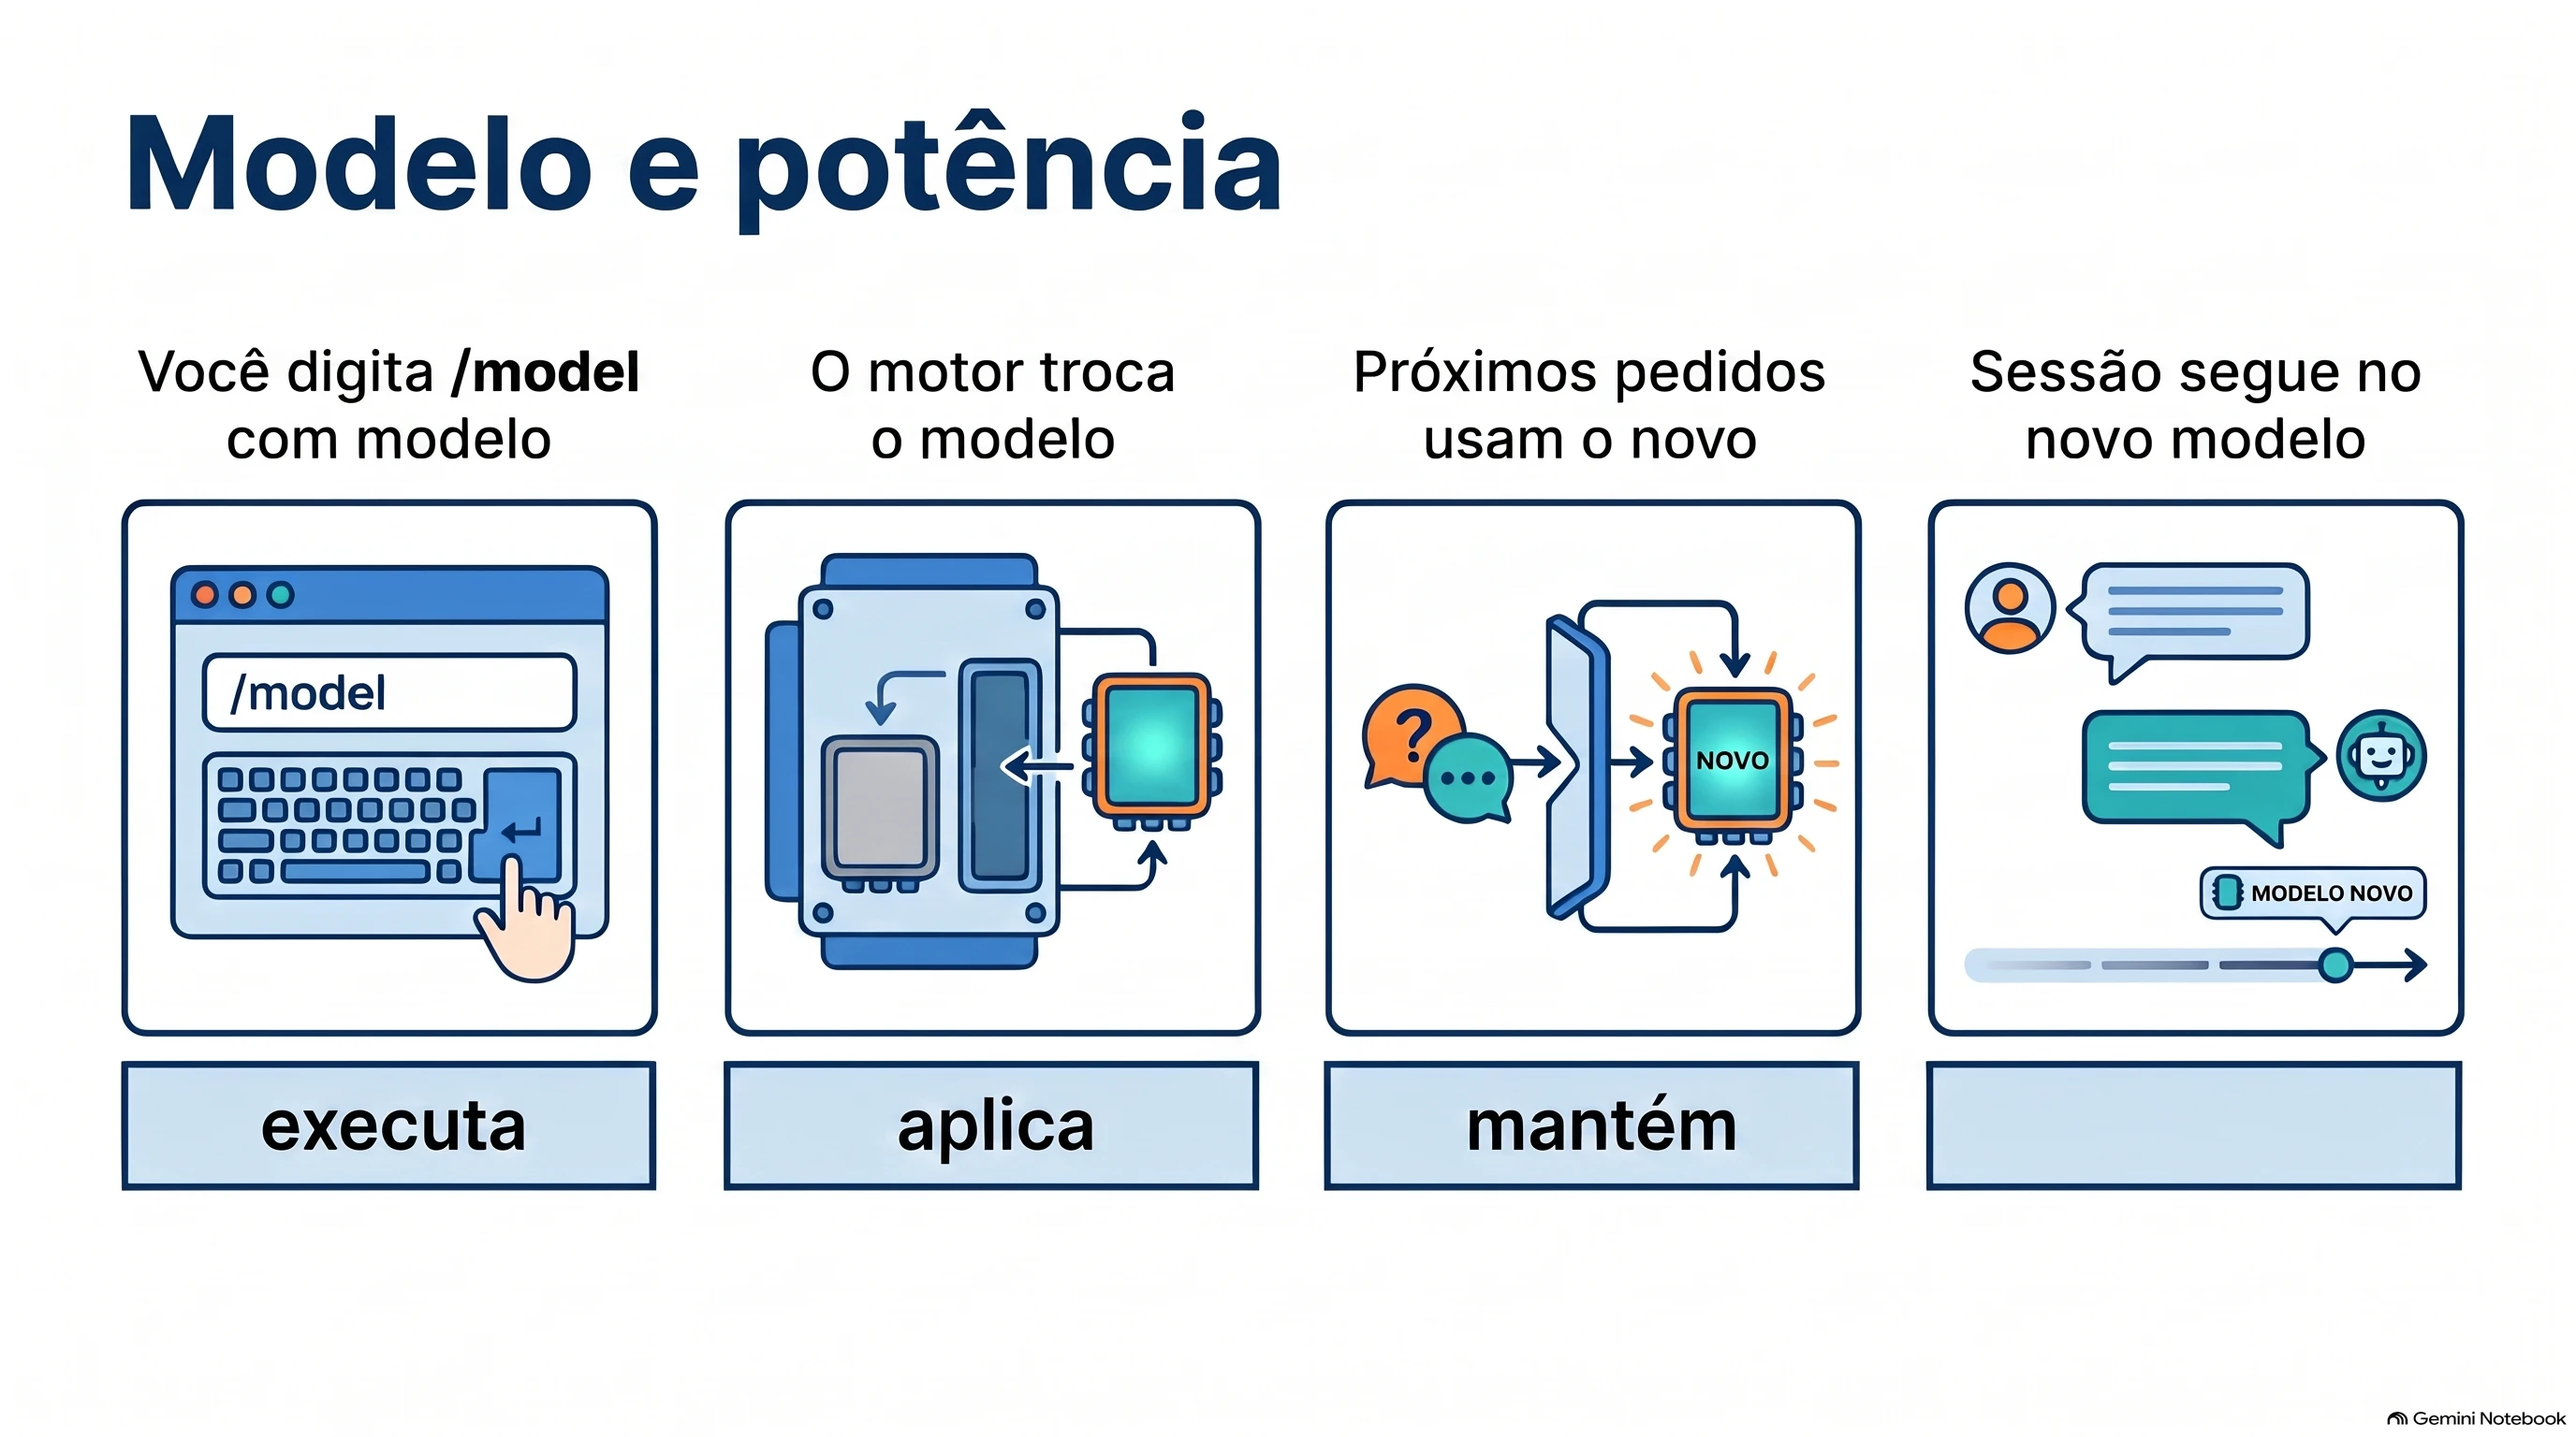
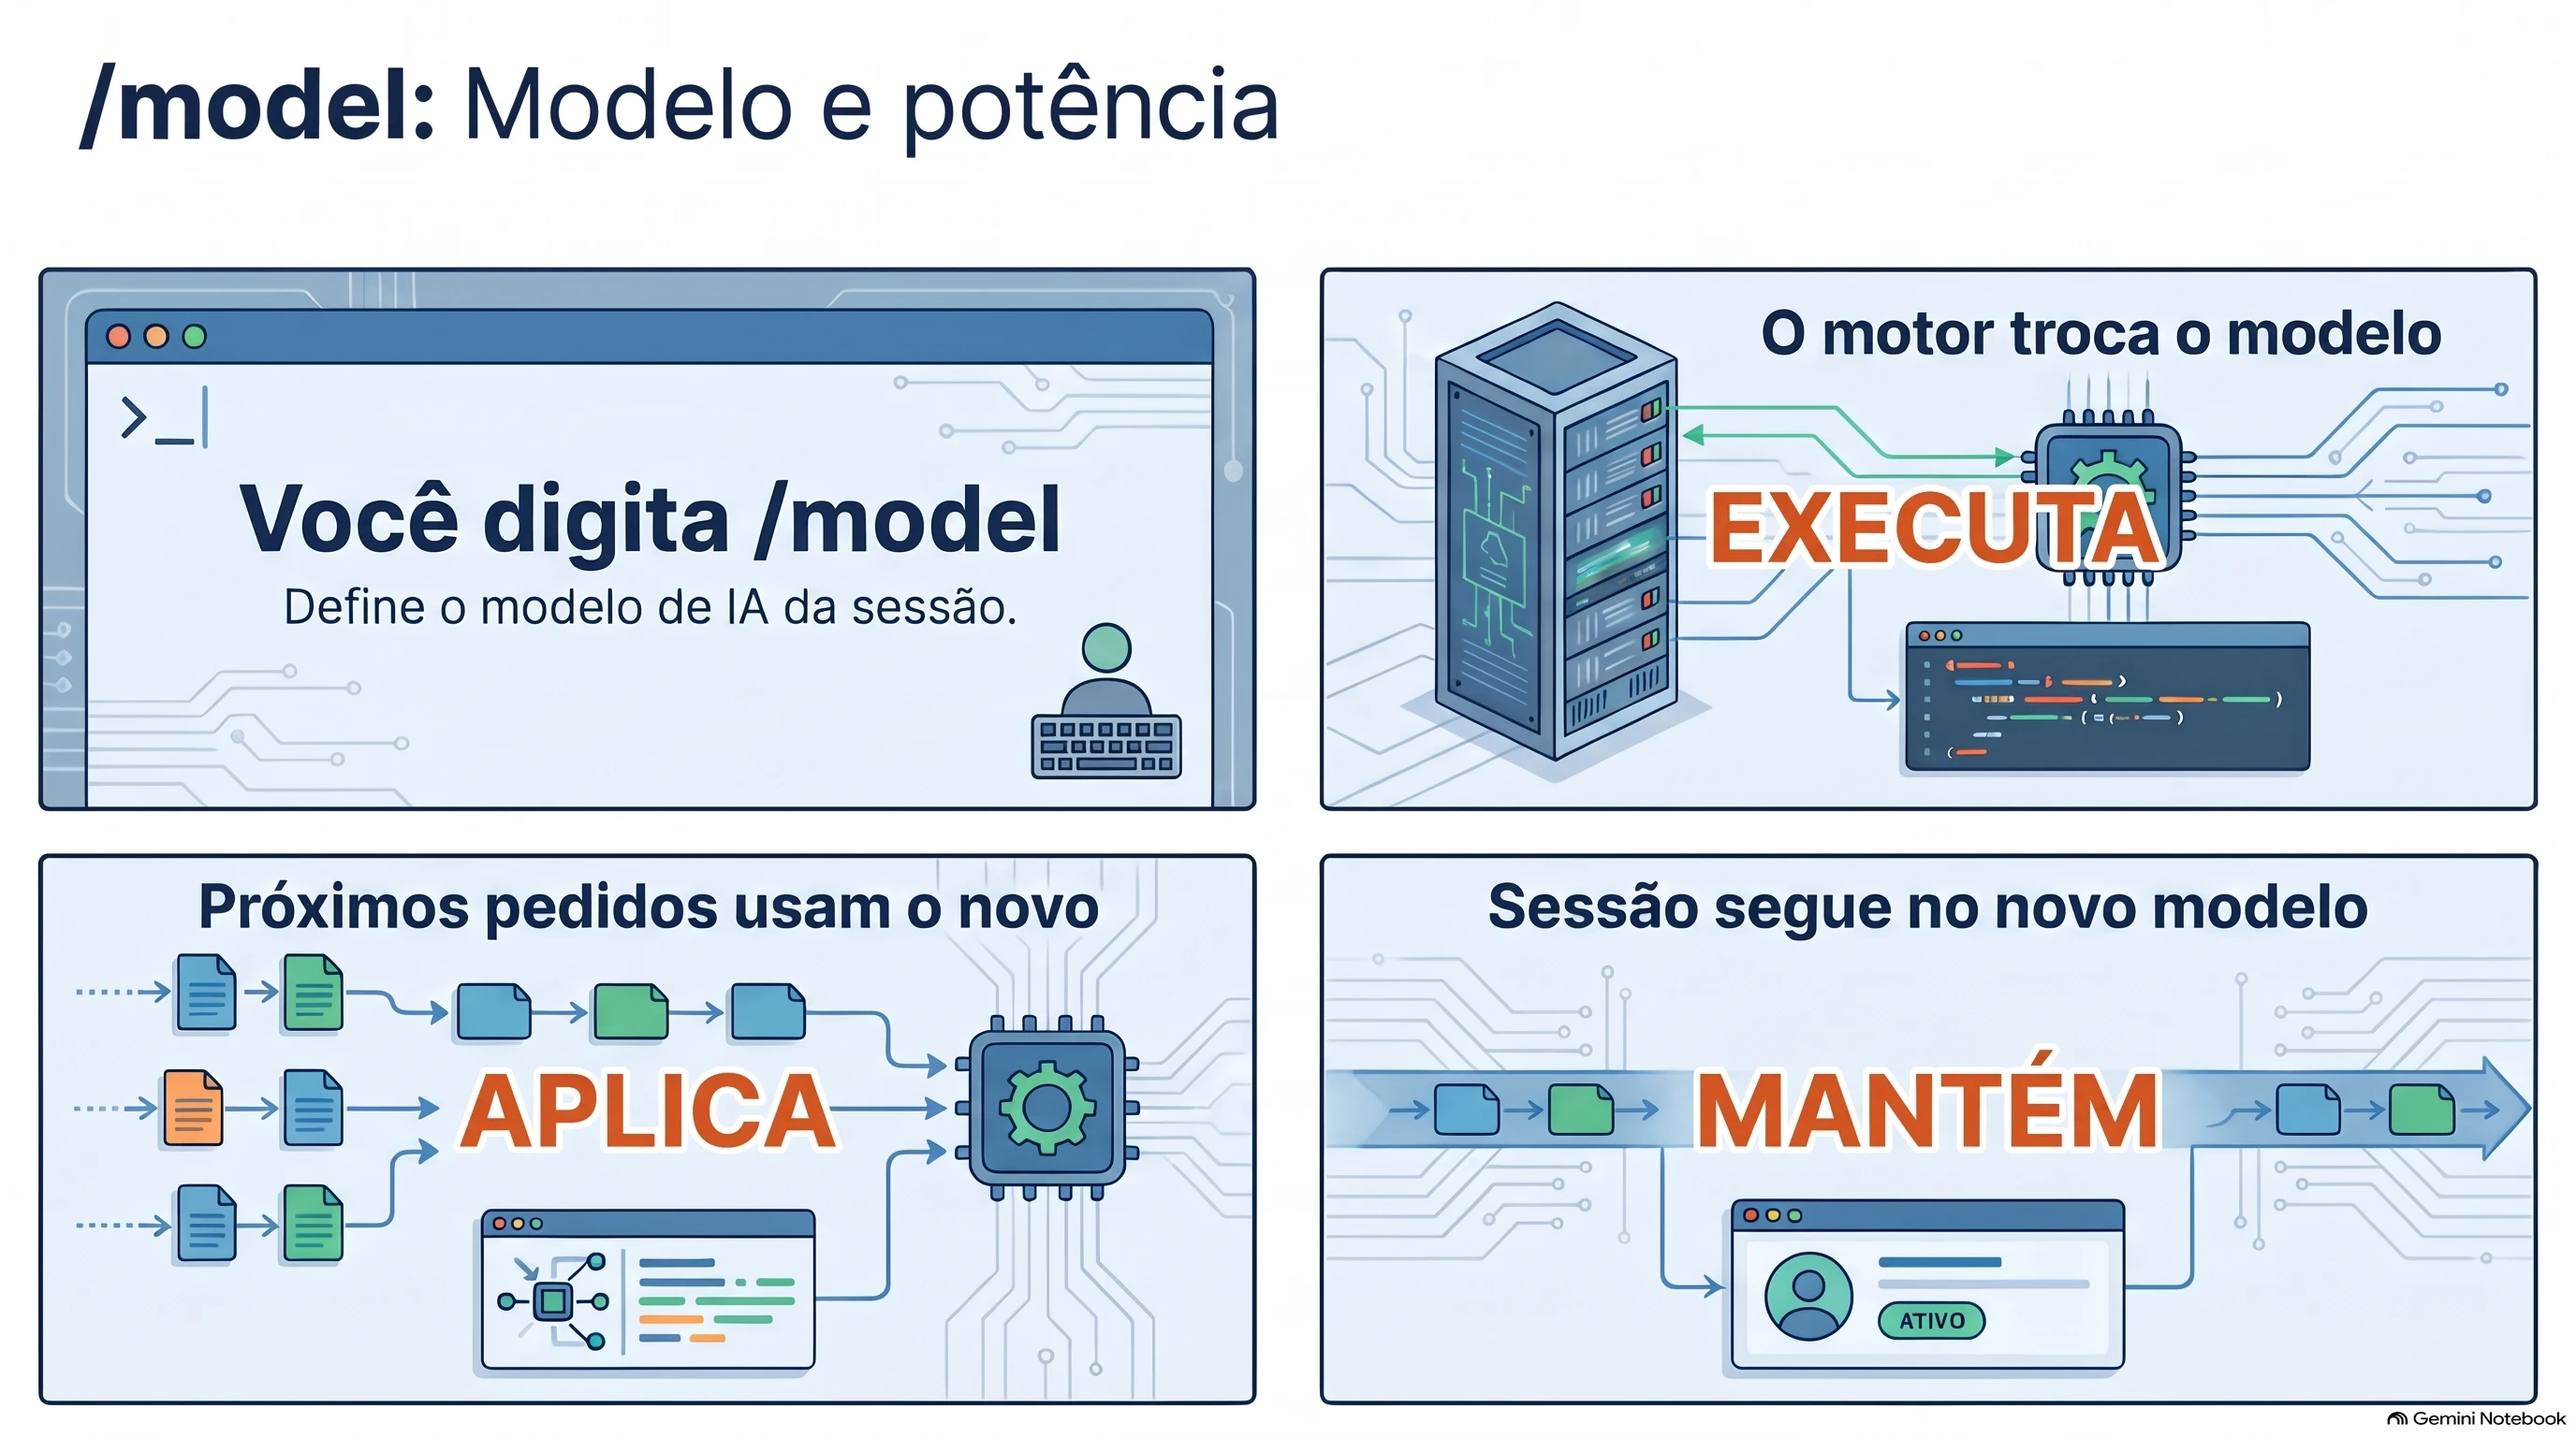
fix(infographics): redo the /model and /review posters
Why: the /model poster came from sources that showed the model
argument as required (the card now has it optional, "[modelo]"), and
the /review poster had the zone label "Identidade e gatilho." as a
caption under step 1.

How: the /model notes in the notebook were refreshed in place; /review
kept its notes and got one more prompt sentence. Each poster went
through the transcription audit and the preview review. /review
attempt 2 had "/code-zeview" and an invented subtitle and passed on
attempt 3; /model passed on attempt 2 with a small "ATIVO" badge
judged a note.

What: new WebP, 1920 px PNG and qa-report.json for /model and
/review; manifest, page and standalone entries updated in place.

Validation: check-qa and register exit 0 for both slugs.

diff --git a/comandos-nativos.html b/comandos-nativos.html
@@ -3193,7 +3193,7 @@ const INFOGRAPHICS = {
       "vector": null
     },
     "model_mode": "notebooklm",
-    "updated_at": "2026-11-23T18:12:32Z"
+    "updated_at": "2026-11-23T19:35:59Z"
   },
   "recap": {
     "command": "/recap",
@@ -3226,7 +3226,7 @@ const INFOGRAPHICS = {
       "vector": null
     },
     "model_mode": "notebooklm",
-    "updated_at": "2026-11-23T11:35:43Z"
+    "updated_at": "2026-11-23T19:41:48Z"
   },
   "rewind": {
     "command": "/rewind",

diff --git a/src/comandos-nativos.html b/src/comandos-nativos.html
@@ -3187,7 +3187,7 @@ const INFOGRAPHICS = {
       "vector": null
     },
     "model_mode": "notebooklm",
-    "updated_at": "2026-11-23T18:12:32Z"
+    "updated_at": "2026-11-23T19:35:59Z"
   },
   "recap": {
     "command": "/recap",
@@ -3220,7 +3220,7 @@ const INFOGRAPHICS = {
       "vector": null
     },
     "model_mode": "notebooklm",
-    "updated_at": "2026-11-23T11:35:43Z"
+    "updated_at": "2026-11-23T19:41:48Z"
   },
   "rewind": {
     "command": "/rewind",
